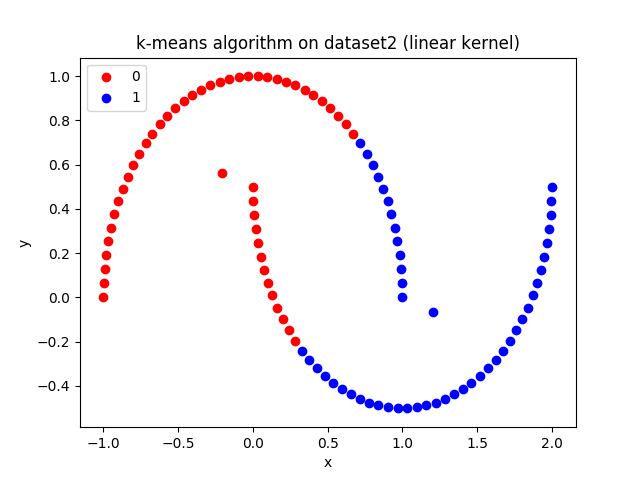
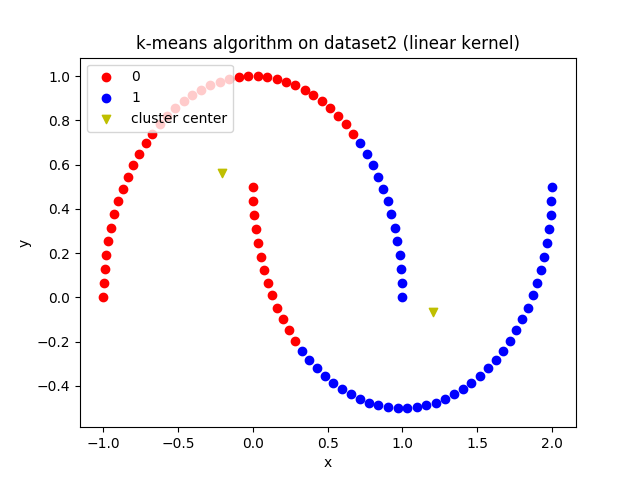
Update plots and code, plots everything now

Changed region(s): [[0.1562, 0.1562, 0.375, 0.2812], [0.6562, 0.625, 0.6875, 0.6562], [0.3438, 0.3438, 0.375, 0.375]]

diff --git a/hw4/problem2.py b/hw4/problem2.py
@@ -70,9 +70,9 @@ def plot_2(data, labels, labeled_data,clusters,n,plot_actual=False):
 			y_vals1.append(p1[1])
 		orig_clusters = [np.mean(orig_labeled_data[0],axis=0),np.mean(orig_labeled_data[1],axis=0)]
 		ax1.scatter(x_vals0, y_vals0, c='r', label=0)
-		ax1.scatter(orig_clusters[0][0],orig_clusters[0][1], c='r')
+		ax1.scatter(orig_clusters[0][0],orig_clusters[0][1], marker='v', c='y')
 		ax1.scatter(x_vals1, y_vals1, c='b', label=1)
-		ax1.scatter(orig_clusters[1][0],orig_clusters[1][1], c='b')
+		ax1.scatter(orig_clusters[1][0],orig_clusters[1][1], marker='v', c='y',label='cluster center')
 		plt.xlabel('x')
 		plt.ylabel('y')
 		title = "dataset" + str(n)
@@ -91,15 +91,16 @@ def plot_2(data, labels, labeled_data,clusters,n,plot_actual=False):
 	y_vals0 = []
 	x_vals1 = []
 	y_vals1 = []
-	for (p0,p1) in zip(label0,label1):
+	for p0 in label0:
 		x_vals0.append(p0[0])
 		y_vals0.append(p0[1])
+	for p1 in label1:
 		x_vals1.append(p1[0])
 		y_vals1.append(p1[1])
 	ax1.scatter(x_vals0, y_vals0, c='r', label=0)
-	ax1.scatter(clusters[0][0],clusters[0][1], c='r')
+	ax1.scatter(clusters[0][0],clusters[0][1], marker='v', c='y')
 	ax1.scatter(x_vals1, y_vals1, c='b', label=1)
-	ax1.scatter(clusters[1][0],clusters[1][1], c='b')
+	ax1.scatter(clusters[1][0],clusters[1][1], marker='v', c='y',label='cluster center')
 	plt.xlabel('x')
 	plt.ylabel('y')
 	title = "k-means algorithm on dataset" + str(n)
@@ -139,11 +140,11 @@ def plot_3(data, labels, labeled_data,clusters,n,plot_actual=False):
 			y_vals2.append(p2[1])
 		orig_clusters = [np.mean(orig_labeled_data[0],axis=0),np.mean(orig_labeled_data[1],axis=0),np.mean(orig_labeled_data[2],axis=0)]
 		ax1.scatter(x_vals0, y_vals0, c='r', label=0)
-		ax1.scatter(orig_clusters[0][0],orig_clusters[0][1], c='r')
+		ax1.scatter(orig_clusters[0][0],orig_clusters[0][1], marker='v', c='y')
 		ax1.scatter(x_vals1, y_vals1, c='b', label=1)
-		ax1.scatter(orig_clusters[1][0],orig_clusters[1][1], c='b')
+		ax1.scatter(orig_clusters[1][0],orig_clusters[1][1], marker='v', c='y')
 		ax1.scatter(x_vals2, y_vals2, c='g', label=2)
-		ax1.scatter(orig_clusters[2][0],orig_clusters[2][1], c='g')
+		ax1.scatter(orig_clusters[2][0],orig_clusters[2][1], marker='v', c='y',label='cluster center')
 		plt.xlabel('x')
 		plt.ylabel('y')
 		title = "dataset" + str(n)
@@ -165,20 +166,21 @@ def plot_3(data, labels, labeled_data,clusters,n,plot_actual=False):
 	y_vals1 = []
 	x_vals2 = []
 	y_vals2 = []
-	for (p0,p1) in zip(label0,label1):
+	for p0 in label0:
 		x_vals0.append(p0[0])
 		y_vals0.append(p0[1])
+	for p1 in label1:
 		x_vals1.append(p1[0])
 		y_vals1.append(p1[1])
 	for p2 in label2:
 		x_vals2.append(p2[0])
 		y_vals2.append(p2[1])
 	ax1.scatter(x_vals0, y_vals0, c='r', label=0)
-	ax1.scatter(clusters[0][0],clusters[0][1], c='r')
+	ax1.scatter(clusters[0][0],clusters[0][1], marker='v',c='y')
 	ax1.scatter(x_vals1, y_vals1, c='b', label=1)
-	ax1.scatter(clusters[1][0],clusters[1][1], c='b')
+	ax1.scatter(clusters[1][0],clusters[1][1], marker='v',c='y')
 	ax1.scatter(x_vals2, y_vals2, c='g', label=2)
-	ax1.scatter(clusters[2][0],clusters[2][1], c='g')
+	ax1.scatter(clusters[2][0],clusters[2][1], marker='v', c='y',label='cluster center')
 	plt.xlabel('x')
 	plt.ylabel('y')
 	title = "k-means algorithm on dataset" + str(n)
@@ -208,7 +210,7 @@ def kernel(data, labels, k, kernel):
 	if kernel is 'lin':
 		kernel_vals = linear_kernel(data,data)
 	if kernel is 'poly':
-		kernel_vals = polynomial_kernel(data,data,degree=2)
+		kernel_vals = polynomial_kernel(data,data)
 	if kernel is 'rbf':
 		kernel_vals = rbf_kernel(data,data)
 		
